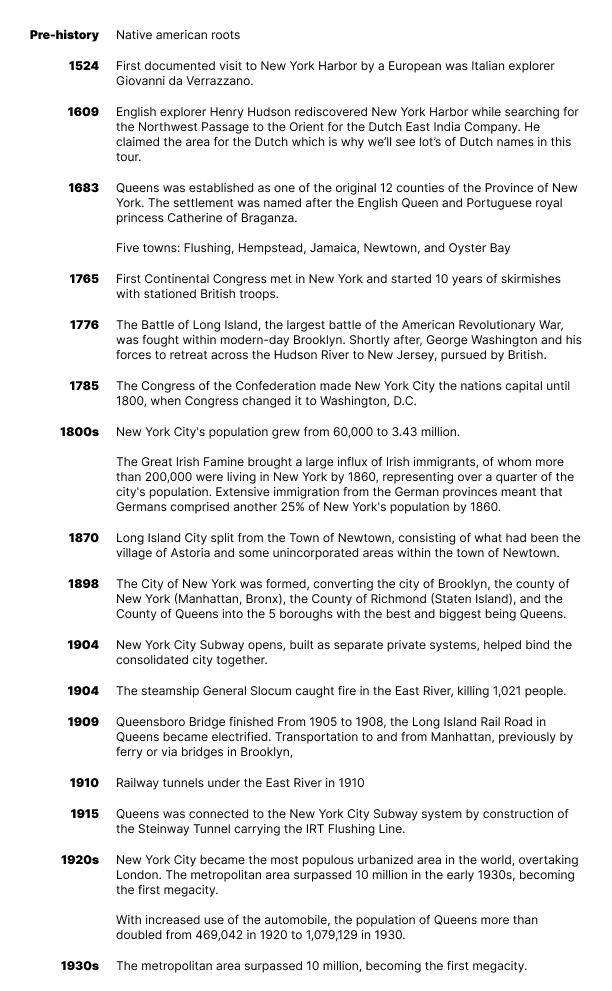
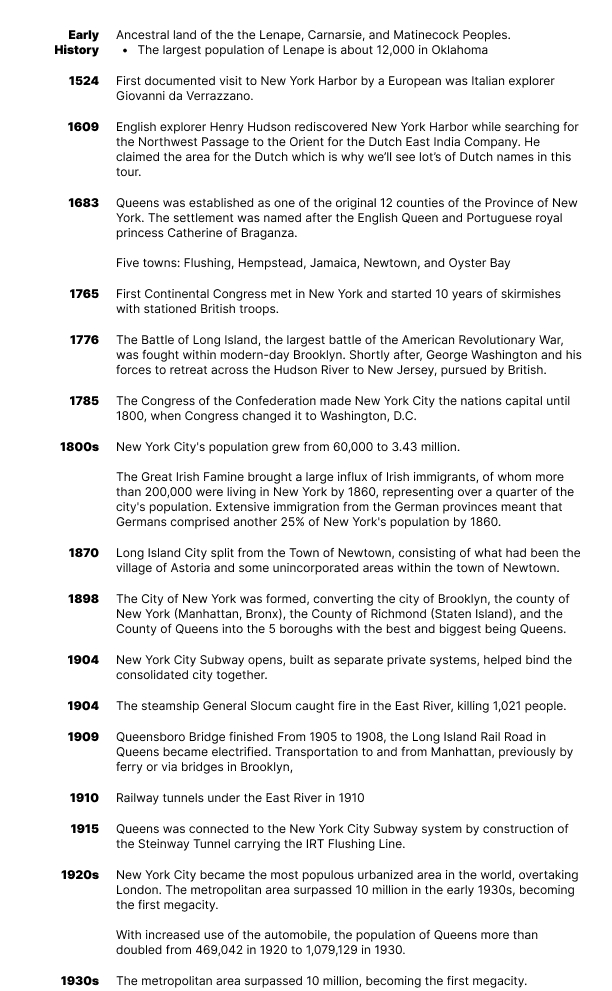
update

diff --git a/historyrun/index.md b/historyrun/index.md
@@ -15,6 +15,8 @@ Welcome! This run will be 7ish miles with an extra bit for the marathon runners.
 
 As we go through this tour, I encourage people to call out personal landmarks that mean something to them and share stories about there experience at restraunts, parks and other landmarks we pass.
 
+Brief on Astoria Runners History
+
 ## 01 NYC & Queens
 Let's establish some context and talk about New York City and Queens. Stretching is encouraged during this section.
 
@@ -27,24 +29,6 @@ Let's establish some context and talk about New York City and Queens. Stretching
 | **Salt Lake City, Utah** | 215,548 | 111 |
 | **Wyoming** | 588,753 | 97,813 |
 
-**Early History** 
-* Ancestral land of the the Lenape, Carnarsie, and Matinecock Peoples.
-    * The largest population of Lenape is about 12,000 in Oklahoma
-
-**1524**
-First documented visit to New York Harbor by a European was Italian explorer Giovanni da Verrazzano.
-
-|
-
-**1609**
-English explorer Henry Hudson rediscovered New York Harbor while searching for the Northwest Passage to the Orient for the Dutch East India Company. He claimed the area for the Dutch which is why we’ll see lot’s of Dutch names in this tour.
-
-|
-
-**1683**
-Queens was established as one of the original 12 counties of the Province of New York. The settlement was named after the English Queen and Portuguese royal princess Catherine of Braganza. 
-
-Five towns: Flushing, Hempstead, Jamaica, Newtown, and Oyster Bay
 
 
 ![Timeline](/nyc-context.jpg)
@@ -178,23 +162,26 @@ Queenboro bridge opened in 1909 which was the first big connection to New York C
 ## 22 Big Alice
 Ravenswood Generating Station: A significant part of Astoria’s industrial history, this power plant has been a landmark since the early 1960s.
 
-## Ravenswood / more astoria growth
+## 23 Ravenswood / more astoria growth
 * The land was acquired in 1814 by Col. George Gibbs
 * After Gibbs Death, Many mansions wer built on the land
 * Hamlet within the Town of Newtown until its absorption with the Village of Astoria and the hamlets of Hunters Point, Blissville, Sunnyside, Dutch Kills, Steinway, Bowery Bay and Middleton in Newtown Township into Long Island City in 1870.  In 1870, Ravenswood, along with several other hamlets and the Village of Astoria, merged to form Long Island City.
 * New York City Housing Athority Project was built in 1949 to 1951
 ![Ravenswood Map](/ravenswood-map.jpg)
 
-## Kaufman Astoria Studios
+## 24 Frank Sinatra School of the arts
+* founded in 2001 by singer Tony Bennett and his wife, Susan Benedetto, in Astoria, Queens. The school offers specialized programs in various arts disciplines and is known for its high graduation and college enrollment rates.
+
+## 25 Kaufman Astoria Studios
 Originally built in 1920 as the Astoria Studio for Paramount Pictures, has been a significant site for filmmaking in New York City. It produced over 100 silent films in its early years and has since hosted numerous major films and television shows, becoming a historic landmark added to the National Register of Historic Places in 1978.
 The Famous Players-Lasky film studio that became Paramount Pictures
 ![The Famous Players-Lasky film studio](/studio.jpg)
 
-## Museum of the Moving Image
+## 26 Museum of the Moving Image
 Established in 1988 in Astoria, New York, as the first museum in the U.S. dedicated to the art, history, and technology of film, television, and digital media. Originally known as the American Museum of the Moving Image, it has undergone significant renovations and expansions, including a major one completed in 2011, enhancing its facilities and exhibitions.
 Located in the historic building of the former Astoria Studios. One of the oldest continuously operating movie studios in the United States, established in 1920.
 
-## Steinway clocks / street
+## 27 Steinway
 * Hellmans mayonnaise factory was on steinway street
 
 Industry started coming to Astoria at the end of the 1800s and with it the Steinway company
@@ -209,14 +196,14 @@ Built a theme park called north beach that fell into disrepair and was later tur
 Archive
 ![North Beach Amussment Park](/north-beach-park.jpg)
 
-## Little Egypt
+## 28 Little Egypt
 * In the 1990s, Steinway Street between 28th Avenue and Astoria Boulevard saw the establishment of many Arabic shops, restaurants, and cafes, which is unofficially called "Little Egypt", due to the number of Arabs residing there and the mostly Egyptian shops and lounges there. First notable shop opened in 1987 when yours truly was born
 
 
-## 31 Ave Open Streets
+## 29 31 Ave Open Streets
 Started in 2020 during the pandemic, has evolved to take up more space and truly own the street. Hosts movies, Yoga classes, farmers markets, free library swaps, and everything community.
 
-## BMT Astoria Line
+## 30 BMT Astoria Line
 * formerly the IRT Astoria Line reached Astoria in 1917
 * Interborough Rapid Transit Company (IRT) and Brooklyn–Manhattan Transit Corporation (BMT)
 * using IRT-sized cars until 1949
@@ -225,13 +212,13 @@ Started in 2020 during the pandemic, has evolved to take up more space and truly
 * A 1920s Transit Commission study proposed extending the line northwest across or under Randalls and Wards Islands back into Manhattan as a crosstown line at 125th Street, roughly following the route of what is now the Triborough Bridge.
 * In 1998, an extension of the BMT Astoria Line to LaGuardia Airport was planned as part of a $1.2 billion package to provide access to the New York City airports with funding from the MTA, the Port Authority and the city.
 
-## Athens Square Park
+## 31 Athens Square Park
 * Over 120 nationalities represented in the neighborhood
 * Two we are exceptionaly known for are Little Egypt and greek population
 * Two waves of greek immigration - early 1900s - major wave in 1960s after WWII after right wing military takes over Greece. Largest greek city outside of Greece and Cyprus.
 * Queens is the most diverse county in the entire country /  the world
 
-## Mount Sinai Queens
+## 32 Mount Sinai Queens
 Originally founded as Astoria Hospital in 1892
 originally located on Astoria Boulevard
 1896, a gala opening heralded Astoria Hospital’s new Tudor Building on Crescent Street between 30th Avenue and 30th Road, with sweeping views of Manhattan
@@ -239,12 +226,12 @@ Two years after moving to its new location, the hospital was forced to close due
 Then Marie Daly and John F. Daly bought the hospital and opened Daly’s Astoria Sanatorium in 1925 as a maternity hospital and a place where patients could recuperate from long illnesses
 A group of physicians purchased the hospital in 1949 and changed its name to Astoria General Hospital.
 
-## Astoria Center of Israel
+## 33 Astoria Center of Israel
 Founded in 1926, this synagogue is a significant cultural and religious site in the neighborhood.
 
-## Newtown Ave
+## 34 Newtown Ave
 Named for the town it runs to; Newtown, a former division of Queens County, is now roughly the neighborhoods of Elmhurst, Middle Village, Maspeth and Glendale. An old road that originally served as an Indian trail and became a main route to early settler William Hallett’s farm in the mid-17th century. It was colloquially called Hellgate Ferry Road.
 ![Hellgate Ferry Rd](/hellgate-ferry-rd.jpg)
 
-## Astoria Library
+## 35 Astoria Library
 Opened on February 28, 1899, originally as part of the Long Island City Public Library. It became part of the Queens Library system in 1901, contributing to the expansion of library services throughout the borough. We have 3 Libraries in Astoria! 
